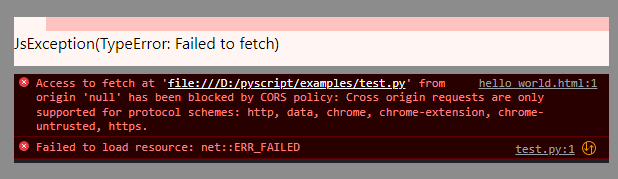
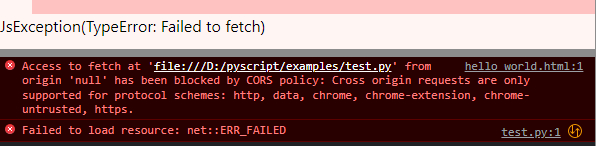
Continue post, update cors image

diff --git a/content/post/pyscript-browser-files/index.html b/content/post/pyscript-browser-files/index.html
@@ -7,7 +7,7 @@ tags:
 - pyscript
 description: Solving the mysterious "No Module Name..." and "Failed to Fetch" issues that plague new PyScript developers.
 ---
-<script defer src="https://pyscript.net/releases/2022.06.1/pyscript.js"></script>
+<!-- <script defer src="https://pyscript.net/releases/2022.06.1/pyscript.js"></script> -->
 <p class="post-h2">Intro</p>
 <p class="post-p">Adipisicing deserunt est quis occaecat qui labore veniam cupidatat ex duis qui sunt. Aute cupidatat amet id veniam incididunt. Magna Lorem duis aliqua cupidatat laborum anim excepteur et mollit in.Et aliqua in qui consequat esse occaecat veniam et. Anim sint anim ipsum reprehenderit. Ex in cillum veniam commodo eiusmod ad. Deserunt irure ut minim ipsum minim proident sit non labore occaecat culpa sint.</p>
 <p class="post-p">Amet nisi commodo ea pariatur sit laboris est qui et. Ad incididunt irure reprehenderit adipisicing minim. Fugiat do eiusmod incididunt sint labore sunt voluptate. Lorem consectetur nisi sit labore excepteur eu id ut culpa commodo et aliqua non mollit. Minim ut aliqua consequat deserunt in qui cillum. Laboris pariatur ad aliqua sint nisi officia nisi amet eiusmod ad anim ullamco.Ea eiusmod pariatur esse quis qui minim cillum exercitation qui consequat sit tempor. Officia cupidatat laborum sint adipisicing adipisicing Lorem dolor fugiat. Cupidatat ad ipsum elit non. Deserunt reprehenderit aliqua non nulla esse voluptate aliqua cupidatat dolore.</p>
@@ -15,10 +15,14 @@ description: Solving the mysterious "No Module Name..." and "Failed to Fetch" is
 <p class="mt-4 post-h3">The Error</p>
 <p class="post-p">This is by far the most common issue that shows up on the discussion groups. You clone the <a href="https://github.com/pyscript/pyscript">PyScript GitHub repo</a>, double click on some of the html files in the examples folder... and while some work, others (notoriosly <a href="https://github.com/pyscript/pyscript/blob/main/examples/simple_clock.html">simple_clock.html</a>) fail with the error <code class="code">ModuleNotFoundError: No module named ...</code>. You might even see a messge at the top of the page saying <span class="font-semibold"> PyScript: Access to local files (using "Paths:" in &lt;py-env&gt;) is not available when directly opening a HTML file.</span></p>
 <img src="utilserror.jpg" alt="" class="w-128 post-img">
-<p class="post-p">Or mabye you've been working on your own PyScript project, and you decide to move your Python code into its own <code class="code">.py</code> file. So you change your PyScript tag to <code class="code">&lt;py-script src=&quot;my_code.py&quot;&gt;&lt;/py-script&gt;</code>, but even with <code class="code">my_code.py</code> in the same folder as your html file, it refusese to load! You might see the same error as above, a <span class="font-bold">cors-error</span>, or both.</p>
-<img src="corsfetcherror.jpg" alt="" class="post-img">
+<p class="post-p">Or mabye you've been working on your own PyScript project, and you decide to move your Python code into its own <code class="code">.py</code> file. So you change your PyScript tag to <code class="code">&lt;py-script src=&quot;my_code.py&quot;&gt;&lt;/py-script&gt;</code>, but even with <code class="code">my_code.py</code> in the same folder as your html file, it refuses to load! You might see the same error as above, a <span class="font-bold">cors-error</span>, or both.</p>
+<img src="corsfetcherror.jpg" alt="" class="p-4 post-img">
 <p class="post-p">So the question we have to answer is, <span class="italic">Why can't PyScript find my python files/modules/packages, even though they're in the same folder as my <code class="not-italic code">.html</code> file?</span></p>
 <p class="mt-4 post-h3">Where are my Files?</p>
-<p class="post-p">The short answer - this isn't PyScript's issue. It's the browser's.</p>
-<p class="post-p">For <a href="https://www.techradar.com/news/theres-another-huge-security-google-chrome-update-you-should-install-right-away">all</a> <a href="https://arstechnica.com/information-technology/2022/07/exploit-seller-used-chrome-exploit-and-2-other-0-days-to-infect-journalists/">their</a> <a href="https://www.androidcentral.com/apps-software/google-chrome-password-strength-indicator">faults</a>, modern web browsers do try to keep the user safe. One thing they definitely won't allow? Allowing websites arbitrary access to your harddrive. Imagine if Twitter could search your desktop for spreadsheets and upload them without you knowing. Or worse, you accidently type in <code class="code">gmial.com</code> and before you know it, any file  with "W2" or "Payroll" or "Deposit" in it is whisked away into the hands of dangerous internet thieves.</p>
-<p class="post-p">Thankfully, </p>
+<p class="post-p">The short answer - this isn't PyScript's issue. It's the browser's. And it's not a bug: it's a feature.</p>
+<p class="post-p">For <a href="https://www.techradar.com/news/theres-another-huge-security-google-chrome-update-you-should-install-right-away">all</a> <a href="https://arstechnica.com/information-technology/2022/07/exploit-seller-used-chrome-exploit-and-2-other-0-days-to-infect-journalists/">their</a> <a href="https://www.androidcentral.com/apps-software/google-chrome-password-strength-indicator">faults</a>, modern web browsers do try to keep their users safe. One thing they definitely won't allow? Allowing websites arbitrary access to your harddrive. Imagine if Twitter could search your desktop for spreadsheets and upload them without you knowing. Or worse, you accidently type in <code class="code">gmial.com</code> and before you know it, any file  with "W2" or "Payroll" or "Deposit" in it is whisked away into the hands of dangerous internet thieves.</p>
+<p class="post-p">For that reason, <span class="font-bold">broswers can't access abritrary files on your harddrive without explicit permission*</span> When you double-click on an <code class="code">.html</code> file? That's giving your browser explicit permission to open that file and<span class="italic"> only that file</span>. Same goes for using <code class="code">File > Open...</code> in the browser's menu.</p>
+<p class="post-p">But when add an external <code class="code">.py</code> file in your PyScript (using <code class="code">src = ...</code> and <code class="code">&lt;py-env&gt;Paths:&lt;/py-env&gt;</code>, PyScript uses the browser's built in <a href="https://developer.mozilla.org/en-US/docs/Web/API/Fetch_API">Fetch API</a> to make a request to load that file. And as far as your browser is concerned,you haven't given explicity permission for <span class="italic">that page</span> to open <span class="italic">that file</span>, so it forbids access.</p>
+<p class="post-p">The large red error that appears at the top of the screen in this case tries to make obvious to the new Pyscript user what's happening here. (I should know, <a href="https://github.com/pyscript/pyscript/commit/b767a78b052cfb6a8a7a6d6ef301250443461915#diff-93ffd8baa67686edae90dbe5aed373d8ad3e6a1164b87542c71612a48c6ed5ce">I wrote it</a>. The key advice it provides? <span class="italic">"You must use a webserver to serve the additional files."</span> So how might we do that?</p>
+<hr>
+<p class="post-p font-italic">*Footnote: The statement that browsers can't access files on your hard drive, while true in spirit, has, like anything to do with programming, lots of exceptions. For example, trying including a <code class="code">&lt;img src=&quot;...&quot;&gt;</code> tag in your html file with a local image source; if you open the html file in a browser, the image loads just fine.</p>
